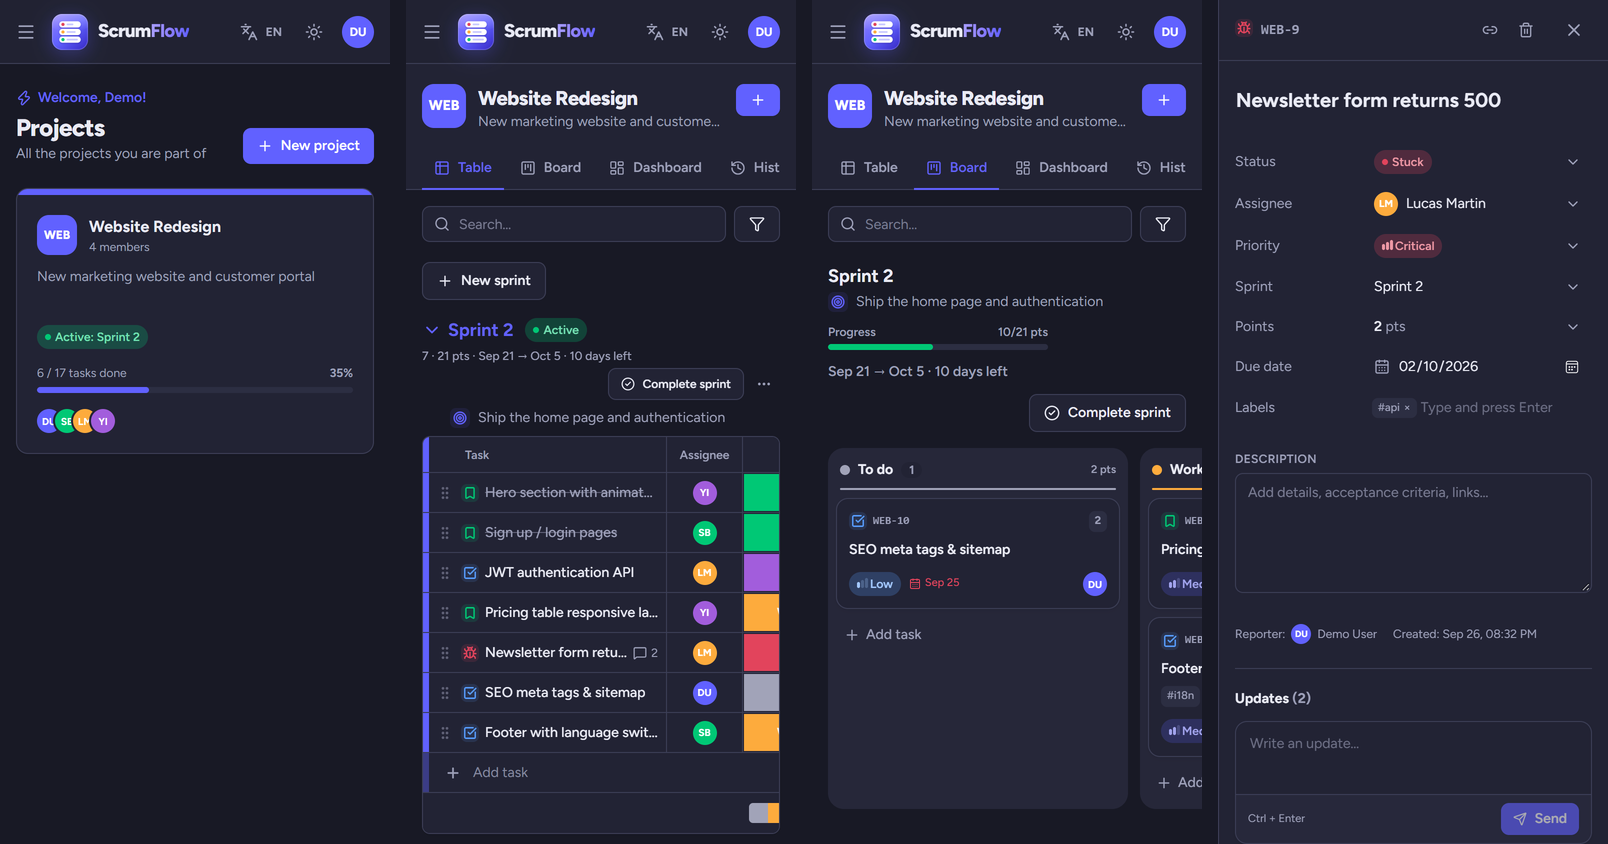
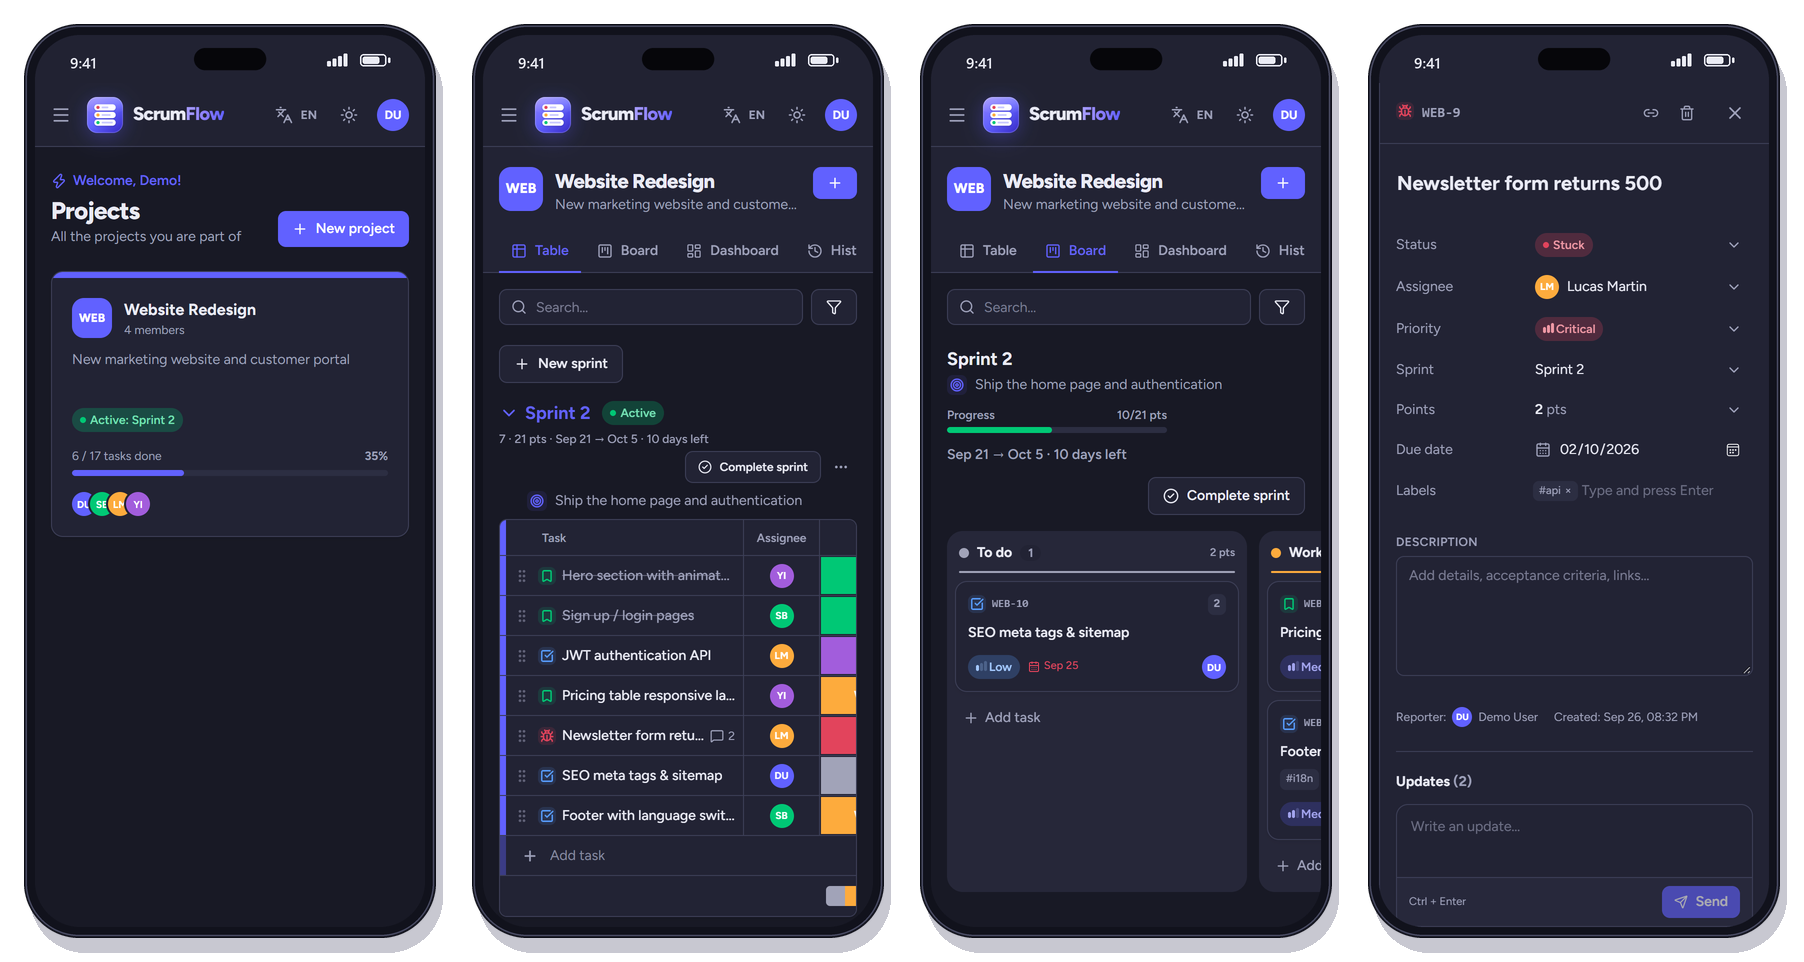
docs: show phone screenshots in device frames with a caption
- Frame the mobile screenshots in phone mockups with a status bar
- Add an "On phones" section and a caption naming each screen

Changed region(s): [[0.0, 0.0, 1.0, 1.0]]

diff --git a/README.md b/README.md
@@ -16,7 +16,13 @@ ScrumFlow is a workspace for Scrum teams. Plan your sprints, organize the backlo
 | --- | --- |
 | ![Task details](docs/screenshots/task.png) | ![Sign in](docs/screenshots/login.png) |
 
-![Mobile](docs/screenshots/mobile.png)
+### On phones
+
+The whole app is responsive. Here it is on a phone (390 px wide, dark mode):
+
+![ScrumFlow on phones: projects, table, board and task details](docs/screenshots/mobile.png)
+
+<p align="center"><sub>Projects list · Table view · Board · Task details</sub></p>
 
 ## How it works
 
